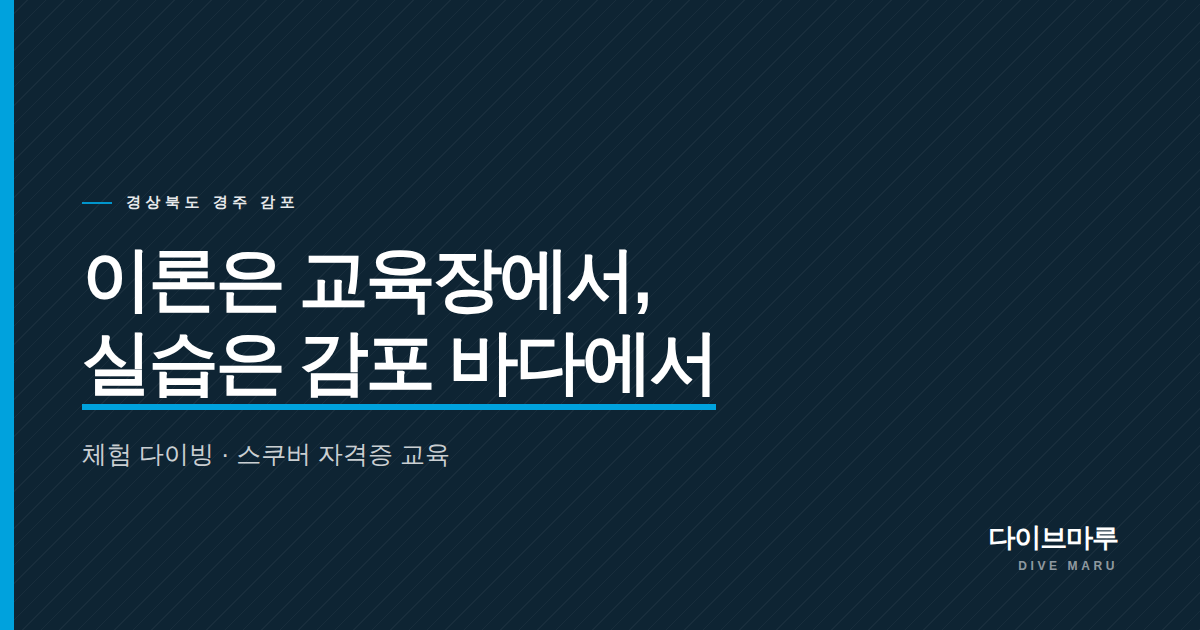
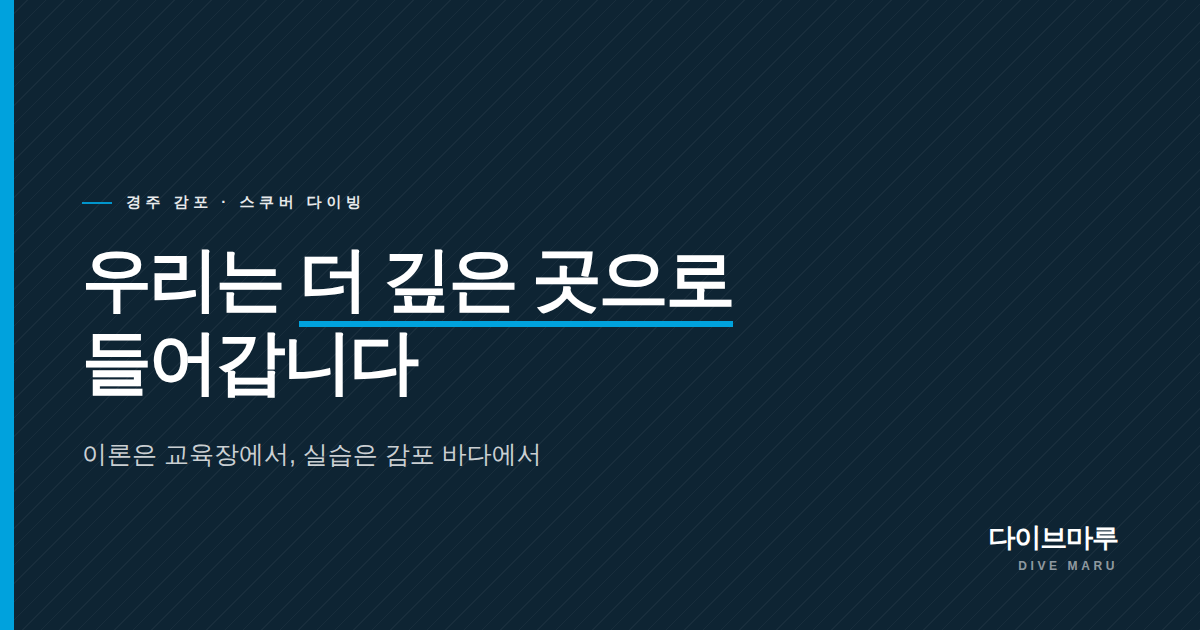
메인 카피 교체, 카드 정리, 강사 섹션 축소, 문안 전반 수정
- 히어로 라벨을 '다이브마루'로 바꾸고 메인 카피를 '우리는 더 깊은 곳으로
  들어갑니다'로 교체. 제목과 본문에 줄바꿈 규칙(text-wrap, nowrap)을 적용해
  어색하게 끊기지 않도록 정리
- 프로그램 카드에서 사진 위에 깔리던 어두운 캡션 박스를 없애고 제목을
  사진 아래로 이동. 카드마다 있던 문의하기 버튼 4개 제거
- 강사 섹션은 이름과 이력만 남기고 홍보성 문장 삭제
- 소개, 진행 안내, 문의, 오시는 길 문안을 구어체에 가깝게 전반 수정
- OG 이미지도 새 카피로 교체

Claude-Session: https://claude.ai/code/session_01NervRHuCKWvVYbVaHkoNvg

Changed region(s): [[0.0617, 0.3921, 0.6167, 0.6635], [0.0617, 0.6937, 0.4625, 0.754], [0.1233, 0.3016, 0.3083, 0.3317]]

diff --git a/index.html b/index.html
@@ -4,14 +4,14 @@
 <meta charset="utf-8" />
 <meta name="viewport" content="width=device-width, initial-scale=1" />
 <title>다이브마루 | 경주 감포 스쿠버 다이빙 교육 · 체험다이빙</title>
-<meta name="description" content="경북 경주 감포. 이론은 내륙 교육장에서, 실습은 감포 바다에서. 다이브마루는 체험 다이빙과 스쿠버 자격증 교육, 문화 해설·해양환경 프로그램을 운영합니다." />
+<meta name="description" content="경북 경주 감포의 스쿠버 다이빙 교육. 이론은 교육장에서, 실습은 감포 바다에서 진행합니다. 체험 다이빙과 자격증 교육, 문화 해설·해양환경 프로그램을 운영합니다." />
 <meta name="theme-color" content="#ffffff" />
 <link rel="canonical" href="https://divemaru.kr/" />
 <link rel="icon" href="/favicon.svg" type="image/svg+xml" />
 <meta property="og:type" content="website" />
 <meta property="og:site_name" content="다이브마루" />
 <meta property="og:title" content="다이브마루 | 경주 감포 스쿠버 다이빙 교육 · 체험다이빙" />
-<meta property="og:description" content="이론은 교육장에서, 실습은 감포 바다에서. 경주 감포의 다이빙 교육." />
+<meta property="og:description" content="우리는 더 깊은 곳으로 들어갑니다. 경주 감포의 스쿠버 다이빙 교육." />
 <meta property="og:locale" content="ko_KR" />
 <meta property="og:url" content="https://divemaru.kr/" />
 <meta property="og:image" content="https://divemaru.kr/og.png" />
@@ -25,7 +25,7 @@
   "@type": "LocalBusiness",
   "name": "다이브마루",
   "alternateName": "DIVE MARU",
-  "description": "경북 경주 감포 기반의 스쿠버 다이빙 교육. 체험 다이빙, 자격증 교육, 문화 해설 및 해양환경 프로그램을 운영합니다.",
+  "description": "경북 경주 감포의 스쿠버 다이빙 교육. 체험 다이빙, 자격증 교육, 문화 해설과 해양환경 프로그램을 운영합니다.",
   "url": "https://divemaru.kr/",
   "image": "https://divemaru.kr/og.png",
   "address": {
@@ -104,9 +104,9 @@
       <span class="photo__ph" aria-hidden="true"></span><!-- images/hero.jpg -->
     </div>
     <div class="hero__body">
-      <p class="hero__tag">경상북도 경주 감포</p>
-      <h1 class="hero__h">이론은 교육장에서,<br /><span>실습은 감포 바다에서</span></h1>
-      <p class="hero__p">체험 다이빙부터 스쿠버 자격증 교육까지. 다이브마루는 배움이 남는 다이빙을 운영합니다.</p>
+      <p class="hero__tag">다이브마루</p>
+      <h1 class="hero__h">우리는 <span>더 깊은 곳으로</span><br />들어갑니다</h1>
+      <p class="hero__p">경주 감포의 스쿠버 다이빙 교육.<br />이론은 교육장에서, <span class="nb">실습은 감포 바다에서</span> 진행합니다.</p>
       <div class="hero__btns">
         <a class="btn btn--accent" href="#courses">프로그램 보기</a>
         <a class="btn btn--line" href="#contact">문의하기</a>
@@ -123,18 +123,18 @@
     <div class="wrap strip__grid">
       <article class="strip__it">
         <p class="strip__no">01</p>
-        <h2>내륙 교육장 + 감포 해역</h2>
-        <p>감포읍 하동 교육 거점에서 이론과 안전 교육을 마치고, 감포 해역에서 실제로 입수합니다.</p>
+        <h2>교육장과 바다, 두 곳에서</h2>
+        <p>감포읍 하동 교육장에서 이론과 안전 교육을 받고, 감포 해역으로 나가 직접 입수합니다.</p>
       </article>
       <article class="strip__it">
         <p class="strip__no">02</p>
         <h2>체험에서 자격증까지</h2>
-        <p>처음 물에 들어가는 하루부터 상급 과정까지, 다음 단계가 이어지도록 구성했습니다.</p>
+        <p>체험 다이빙으로 시작해 자격증 과정, 상급 과정까지 단계별로 이어집니다.</p>
       </article>
       <article class="strip__it">
         <p class="strip__no">03</p>
-        <h2>소수 인원 직접 인솔</h2>
-        <p>수상구조사 자격을 보유한 대표 강사가 상담부터 입수 인솔까지 직접 진행합니다.</p>
+        <h2>소수 인원, 강사 동반</h2>
+        <p>수상구조사 자격을 가진 대표 강사가 상담부터 입수까지 직접 인솔합니다.</p>
       </article>
     </div>
   </section>
@@ -144,7 +144,7 @@
     <div class="wrap">
       <header class="shead">
         <h2>COURSES</h2>
-        <p>처음 물에 들어가는 하루부터, 스스로 계획하는 다이버가 되기까지.</p>
+        <p>처음 입수부터 자격증 취득까지, 경험에 맞춰 진행합니다.</p>
       </header>
 
       <div class="crs">
@@ -158,8 +158,7 @@
             <p>체험 다이빙</p>
           </div>
           <div class="crs__body">
-            <p>자격증 없이 참여합니다. 호흡법과 장비 사용법을 배우고 강사와 함께 첫 입수를 경험합니다.</p>
-            <a class="tbtn" href="#contact">문의하기</a>
+            <p>자격증 없이 참여할 수 있습니다. 호흡법과 장비 사용법을 배운 뒤 강사와 함께 첫 입수를 합니다.</p>
           </div>
         </article>
 
@@ -173,8 +172,7 @@
             <p>스쿠버 자격증 교육</p>
           </div>
           <div class="crs__body">
-            <p>이론 강의와 기술 훈련, 해양 실습을 거쳐 자격을 취득합니다. 이후 상급 과정으로 이어집니다.</p>
-            <a class="tbtn" href="#contact">문의하기</a>
+            <p>이론 강의와 기술 훈련, 해양 실습을 거쳐 자격증을 취득합니다. 이어서 상급 과정도 진행합니다.</p>
           </div>
         </article>
 
@@ -188,8 +186,7 @@
             <p>문화 해설 다이빙</p>
           </div>
           <div class="crs__body">
-            <p>문무대왕릉과 감은사지 등 감포의 역사 자원, 해역의 자연을 함께 읽어내는 해설형 프로그램입니다.</p>
-            <a class="tbtn" href="#contact">문의하기</a>
+            <p>문무대왕릉, 감은사지 같은 감포의 역사와 이 바다의 이야기를 함께 듣는 프로그램입니다.</p>
           </div>
         </article>
 
@@ -203,13 +200,12 @@
             <p>시민과학 · 해양환경</p>
           </div>
           <div class="crs__body">
-            <p>해양 생물 관찰과 기록, 수중 정화 활동. 단체 및 기관과 협력해 운영합니다.</p>
-            <a class="tbtn" href="#contact">문의하기</a>
+            <p>해양 생물을 관찰해 기록하고 수중 정화 활동을 합니다. 단체·기관과 협력해 운영합니다.</p>
           </div>
         </article>
       </div>
 
-      <p class="sec__note">참가 인원과 일정, 준비물은 상담 후 안내해 드립니다.</p>
+      <p class="sec__note">일정과 참가 인원, 준비물은 상담 때 안내해 드립니다.</p>
     </div>
   </section>
 
@@ -222,10 +218,10 @@
       </div>
       <div class="split__txt">
         <h2 class="big">DIVE INTO<br />GAMPO</h2>
-        <p class="lead">배움이 남는 바다</p>
-        <p>다이브마루는 다이빙(Dive)과 사람이 모이는 자리(마루)를 합친 이름입니다. ‘Dive’는 물속으로 들어가는 일이자, 하나의 주제에 깊이 몰입하는 일이기도 합니다.</p>
-        <p>한 번 스치는 체험으로 끝내지 않습니다. 감포의 바다와 역사, 자연 속으로 한 걸음 더 들어가는 경험을 만듭니다.</p>
-        <a class="btn btn--accent btn--shadow" href="#contact">자세히 문의하기</a>
+        <p class="lead">다이빙(Dive)과 사람이 모이는 자리(마루)</p>
+        <p>경주 감포를 거점으로 체험 다이빙과 스쿠버 자격증 교육을 합니다. 한 번 물에 들어가 보는 것으로 끝나지 않도록 이론과 실습을 나눠 진행하고, 다음 과정까지 이어갑니다.</p>
+        <p>문무대왕릉과 감은사지가 있는 바다입니다. 감포의 역사와 자연도 프로그램에 함께 담습니다.</p>
+        <a class="btn btn--accent btn--shadow" href="#contact">문의하기</a>
       </div>
     </div>
   </section>
@@ -238,10 +234,10 @@
         <p>내륙 교육장에서 배우고, 감포 해역에서 실습합니다.</p>
       </header>
       <ol class="flow">
-        <li><span>01</span><h3>상담 · 예약</h3><p>경험과 목적을 듣고 알맞은 프로그램과 날짜를 함께 정합니다.</p></li>
-        <li><span>02</span><h3>이론 · 안전 교육</h3><p>감포읍 하동 교육 거점에서 이론 강의와 장비 사용법, 안전 수칙을 익힙니다.</p></li>
-        <li><span>03</span><h3>감포 해역 실습</h3><p>오류리항과 고라섬 해역에서 강사 인솔 아래 실제 입수를 진행합니다.</p></li>
-        <li><span>04</span><h3>정리 · 다음 단계</h3><p>기록을 정리하고 피드백을 나눈 뒤 이어갈 과정을 안내합니다.</p></li>
+        <li><span>01</span><h3>상담 · 예약</h3><p>다이빙 경험과 일정을 듣고 프로그램과 날짜를 정합니다.</p></li>
+        <li><span>02</span><h3>이론 · 안전 교육</h3><p>감포읍 하동 교육장에서 이론과 장비 사용법, 안전 수칙을 배웁니다.</p></li>
+        <li><span>03</span><h3>감포 해역 실습</h3><p>오류리항과 고라섬 해역으로 나가 강사와 함께 입수합니다.</p></li>
+        <li><span>04</span><h3>정리 · 다음 과정</h3><p>그날 다이빙을 정리하고, 이어서 할 과정을 안내합니다.</p></li>
       </ol>
     </div>
   </section>
@@ -251,8 +247,6 @@
     <div class="wrap split split--rev">
       <div class="split__txt">
         <h2 class="big">INSTRUCTOR</h2>
-        <p class="lead">바다에서 일해 온 사람이 직접 안내합니다</p>
-        <p>상담부터 교육, 입수 인솔까지 대표 강사가 직접 책임집니다. 현장에서 쌓은 경험과 해양 환경 활동을 함께 담아 교육합니다.</p>
         <p class="name">서보국<em>대표 강사</em></p>
         <ul class="creds">
           <li><b>스쿠버 다이빙 강사</b><span>책임강사로 수십 회 교육 진행</span></li>
@@ -275,7 +269,7 @@
       <span class="photo__ph" aria-hidden="true"></span><!-- images/contact.jpg -->
     </div>
     <div class="wrap band__in">
-      <p class="band__h">다이브마루는 여러분의 이야기를 기다립니다.<br />프로그램과 일정, 준비물을 문의해 주세요.</p>
+      <p class="band__h">일정과 프로그램, 준비물이 궁금하시면<br />편하게 연락 주세요.</p>
       <div class="band__btns">
         <!-- 카카오톡 채널 주소로 교체해 주세요 -->
         <a class="btn btn--accent btn--lg" href="https://pf.kakao.com/" target="_blank" rel="noopener">카카오톡 채널 문의</a>
@@ -290,19 +284,19 @@
     <div class="wrap">
       <header class="shead">
         <h2>LOCATION</h2>
-        <p>교육은 내륙 거점에서, 실습은 감포 해역에서 진행됩니다.</p>
+        <p>교육은 감포읍 교육장에서, 실습은 감포 해역에서 합니다.</p>
       </header>
       <div class="loc">
         <article>
           <p class="loc__lb">교육 거점</p>
           <h3>경상북도 경주시 감포읍 하동 72-4</h3>
-          <p>이론 강의와 안전 교육, 장비 준비가 이루어지는 공간입니다.</p>
+          <p>이론 강의와 안전 교육, 장비 준비를 하는 곳입니다.</p>
           <a class="alink" href="https://map.naver.com/p/search/경주시 감포읍 하동 72-4" target="_blank" rel="noopener">네이버 지도에서 보기</a>
         </article>
         <article>
           <p class="loc__lb">해양 실습장</p>
           <h3>감포 오류리항 · 고라섬 해역 일대</h3>
-          <p>실제 입수와 실습이 진행되는 해역입니다. 당일 기상과 해상 상황에 따라 조정됩니다.</p>
+          <p>실습 입수를 하는 해역입니다. 당일 기상과 해상 상황에 따라 장소가 바뀔 수 있습니다.</p>
           <a class="alink" href="https://map.naver.com/p/search/감포 오류리항" target="_blank" rel="noopener">네이버 지도에서 보기</a>
         </article>
       </div>

diff --git a/styles.css b/styles.css
@@ -49,11 +49,6 @@ button{font:inherit;color:inherit;background:none;border:0;cursor:pointer}
 .btn--lg{height:60px;padding:0 40px}
 .btn--shadow{position:relative;margin-top:36px;box-shadow:9px 9px 0 rgba(18,20,23,.13)}
 .btn--shadow:hover{box-shadow:5px 5px 0 rgba(18,20,23,.13)}
-.tbtn{
-  display:block;height:52px;line-height:52px;text-align:center;
-  background:var(--ink);color:#fff;font-weight:700;font-size:15px;transition:background .18s;
-}
-.tbtn:hover{background:var(--accent)}
 .alink{
   display:inline-flex;align-items:center;gap:8px;margin-top:20px;
   font-weight:700;font-size:15px;color:var(--accent);
@@ -115,11 +110,12 @@ button{font:inherit;color:inherit;background:none;border:0;cursor:pointer}
 .hero__body{position:relative;z-index:3;max-width:var(--max);margin-inline:auto;padding:0 28px;height:100%;display:flex;flex-direction:column;justify-content:center}
 .hero__tag{font-size:13px;font-weight:800;letter-spacing:.3em;color:#fff;opacity:.85;margin-bottom:22px}
 .hero__tag::before{content:"";display:inline-block;width:26px;height:2px;background:var(--accent);vertical-align:middle;margin-right:12px}
-.hero__h{font-size:clamp(2.15rem,5.6vw,4.35rem);font-weight:800;letter-spacing:-.045em;line-height:1.16}
+.hero__h{font-size:clamp(2.15rem,5.6vw,4.35rem);font-weight:800;letter-spacing:-.045em;line-height:1.16;text-wrap:balance}
 .hero__h span{color:#fff;position:relative;display:inline-block}
 .hero__h span::after{content:"";position:absolute;left:0;right:0;bottom:-.08em;height:5px;background:var(--accent)}
-.hero__p{margin-top:30px;max-width:560px;font-size:clamp(1rem,1.4vw,1.14rem);color:rgba(255,255,255,.86);line-height:1.7}
+.hero__p{margin-top:30px;max-width:620px;font-size:clamp(1rem,1.4vw,1.14rem);color:rgba(255,255,255,.86);line-height:1.75;text-wrap:pretty}
 .hero__btns{display:flex;flex-wrap:wrap;gap:10px;margin-top:40px}
+.nb{white-space:nowrap}
 .hero__scroll{position:absolute;left:50%;bottom:32px;z-index:3;transform:translateX(-50%);display:flex;flex-direction:column;align-items:center;gap:10px;color:rgba(255,255,255,.85);font-size:11px;font-weight:700;letter-spacing:.28em}
 .hero__scroll svg{width:12px;height:26px;animation:bob 1.9s ease-in-out infinite}
 @keyframes bob{0%,100%{transform:translateY(0);opacity:.5}50%{transform:translateY(7px);opacity:1}}
@@ -133,7 +129,7 @@ button{font:inherit;color:inherit;background:none;border:0;cursor:pointer}
 .strip__it+.strip__it{padding-left:40px}
 .strip__no{font-size:12px;font-weight:800;letter-spacing:.22em;color:var(--accent);margin-bottom:14px}
 .strip__it h2{font-size:1.24rem;margin-bottom:10px}
-.strip__it p{font-size:15.5px;color:var(--mid);line-height:1.7}
+.strip__it p{font-size:15.5px;color:var(--mid);line-height:1.7;text-wrap:pretty}
 
 /* ---------------- section shell ---------------- */
 .sec{padding:118px 0}
@@ -141,7 +137,7 @@ button{font:inherit;color:inherit;background:none;border:0;cursor:pointer}
 .sec--dark{background:var(--dark);color:#fff}
 .shead{text-align:center;margin-bottom:64px}
 .shead h2{font-size:clamp(2.3rem,5.6vw,4rem);font-weight:900;letter-spacing:-.04em;line-height:1}
-.shead p{margin-top:20px;font-size:clamp(.98rem,1.4vw,1.08rem);color:var(--mid)}
+.shead p{margin-top:20px;font-size:clamp(.98rem,1.4vw,1.08rem);color:var(--mid);text-wrap:balance}
 .sec--dark .shead p{color:rgba(255,255,255,.66)}
 .sec__note{margin-top:44px;text-align:center;font-size:14.5px;color:var(--mid)}
 
@@ -151,12 +147,11 @@ button{font:inherit;color:inherit;background:none;border:0;cursor:pointer}
 .crs__it .photo{aspect-ratio:3/4}
 .crs__it .photo img{transition:transform .5s ease}
 .crs__it:hover .photo img{transform:scale(1.045)}
-.crs__cap{position:relative;margin-top:-92px;padding:0 22px 22px;z-index:2;color:#fff;
-  background:linear-gradient(180deg,transparent,rgba(6,18,28,.82) 62%)}
-.crs__cap h3{padding-top:56px;font-size:1.3rem;font-weight:800}
-.crs__cap p{margin-top:4px;font-size:14.5px;color:rgba(255,255,255,.82);font-weight:500}
-.crs__body{display:flex;flex-direction:column;gap:20px;flex:1;padding:22px 0 0;border-top:2px solid var(--ink)}
-.crs__body p{font-size:15px;color:var(--mid);line-height:1.72;flex:1}
+.crs__cap{padding-top:22px}
+.crs__cap h3{font-size:1.3rem;font-weight:800;letter-spacing:-.03em}
+.crs__cap p{margin-top:5px;font-size:14.5px;font-weight:600;color:var(--accent)}
+.crs__body{padding-top:12px}
+.crs__body p{font-size:15px;color:var(--mid);line-height:1.72}
 
 /* ---------------- split sections ---------------- */
 .split{display:grid;grid-template-columns:1.04fr .96fr;gap:76px;align-items:center}
@@ -164,11 +159,12 @@ button{font:inherit;color:inherit;background:none;border:0;cursor:pointer}
 .big{font-size:clamp(2.2rem,4.8vw,3.5rem);font-weight:900;letter-spacing:-.045em;line-height:1.05}
 .lead{margin-top:26px;font-size:clamp(1.12rem,1.9vw,1.42rem);font-weight:800;letter-spacing:-.03em}
 .split__txt p+p{margin-top:16px}
+.split__txt>p:not(.name){text-wrap:pretty}
 .split__txt>p:not(.lead):not(.name){color:var(--mid);font-size:16px;line-height:1.8}
 .sec--dark .split__txt>p:not(.lead):not(.name){color:rgba(255,255,255,.7)}
-.name{margin-top:40px;font-size:1.6rem;font-weight:800;letter-spacing:-.035em}
+.name{margin-top:30px;font-size:1.7rem;font-weight:800;letter-spacing:-.035em}
 .name em{font-style:normal;font-size:13px;font-weight:700;letter-spacing:.06em;color:var(--accent);margin-left:12px}
-.creds{margin-top:22px;border-top:1px solid rgba(255,255,255,.16)}
+.creds{margin-top:26px;border-top:1px solid rgba(255,255,255,.16)}
 .creds li{display:flex;flex-wrap:wrap;gap:4px 16px;align-items:baseline;padding:15px 0;border-bottom:1px solid rgba(255,255,255,.16)}
 .creds b{font-size:16px;font-weight:700}
 .creds span{font-size:14px;color:rgba(255,255,255,.55)}
@@ -179,14 +175,14 @@ button{font:inherit;color:inherit;background:none;border:0;cursor:pointer}
 .flow li+li{padding-left:30px;border-left:1px solid var(--line)}
 .flow span{display:block;font-size:13px;font-weight:800;letter-spacing:.2em;color:var(--accent);margin-bottom:16px}
 .flow h3{font-size:1.16rem;margin-bottom:10px}
-.flow p{font-size:15px;color:var(--mid);line-height:1.72}
+.flow p{font-size:15px;color:var(--mid);line-height:1.72;text-wrap:pretty}
 
 /* ---------------- contact band ---------------- */
 .band{position:relative;overflow:hidden;color:#fff}
 .photo--band{position:absolute;inset:0}
 .photo--band::before{content:"";position:absolute;inset:0;z-index:2;background:linear-gradient(90deg,rgba(10,14,18,.9),rgba(10,14,18,.55))}
 .band__in{position:relative;z-index:3;padding-block:110px}
-.band__h{font-size:clamp(1.25rem,2.5vw,1.95rem);font-weight:800;letter-spacing:-.035em;line-height:1.5}
+.band__h{font-size:clamp(1.25rem,2.5vw,1.95rem);font-weight:800;letter-spacing:-.035em;line-height:1.55;text-wrap:balance}
 .band__btns{display:flex;flex-wrap:wrap;gap:10px;margin-top:38px}
 
 /* ---------------- location ---------------- */

diff --git a/images/README.md b/images/README.md
@@ -37,3 +37,12 @@ unzip -o divemaru-images.zip -d images/
 시설·강사를 촬영한 사진이 아니므로, 레이아웃 확인과 시안용으로만 쓰고
 오픈 전에 실제 촬영본으로 교체해 주세요. 특히 `instructor.jpg`는 대표 강사
 본인의 사진이 아니라 얼굴이 드러나지 않는 일반 다이버 이미지입니다.
+
+### course-experience.jpg 교체본 (2026-09-12)
+
+첫 버전은 인물의 눈이 어색해 뒷모습 구도로 다시 만들었습니다.
+아래 zip을 받아 `images/course-experience.jpg`를 덮어써 주세요.
+
+```
+https://d2ol7oe51mr4n9.cloudfront.net/user_31g0bJVM8yEuAOXKFEkhaflxq5p/7e7e50b9-f0a7-44ca-89d3-194e34fe83bd.zip
+```
